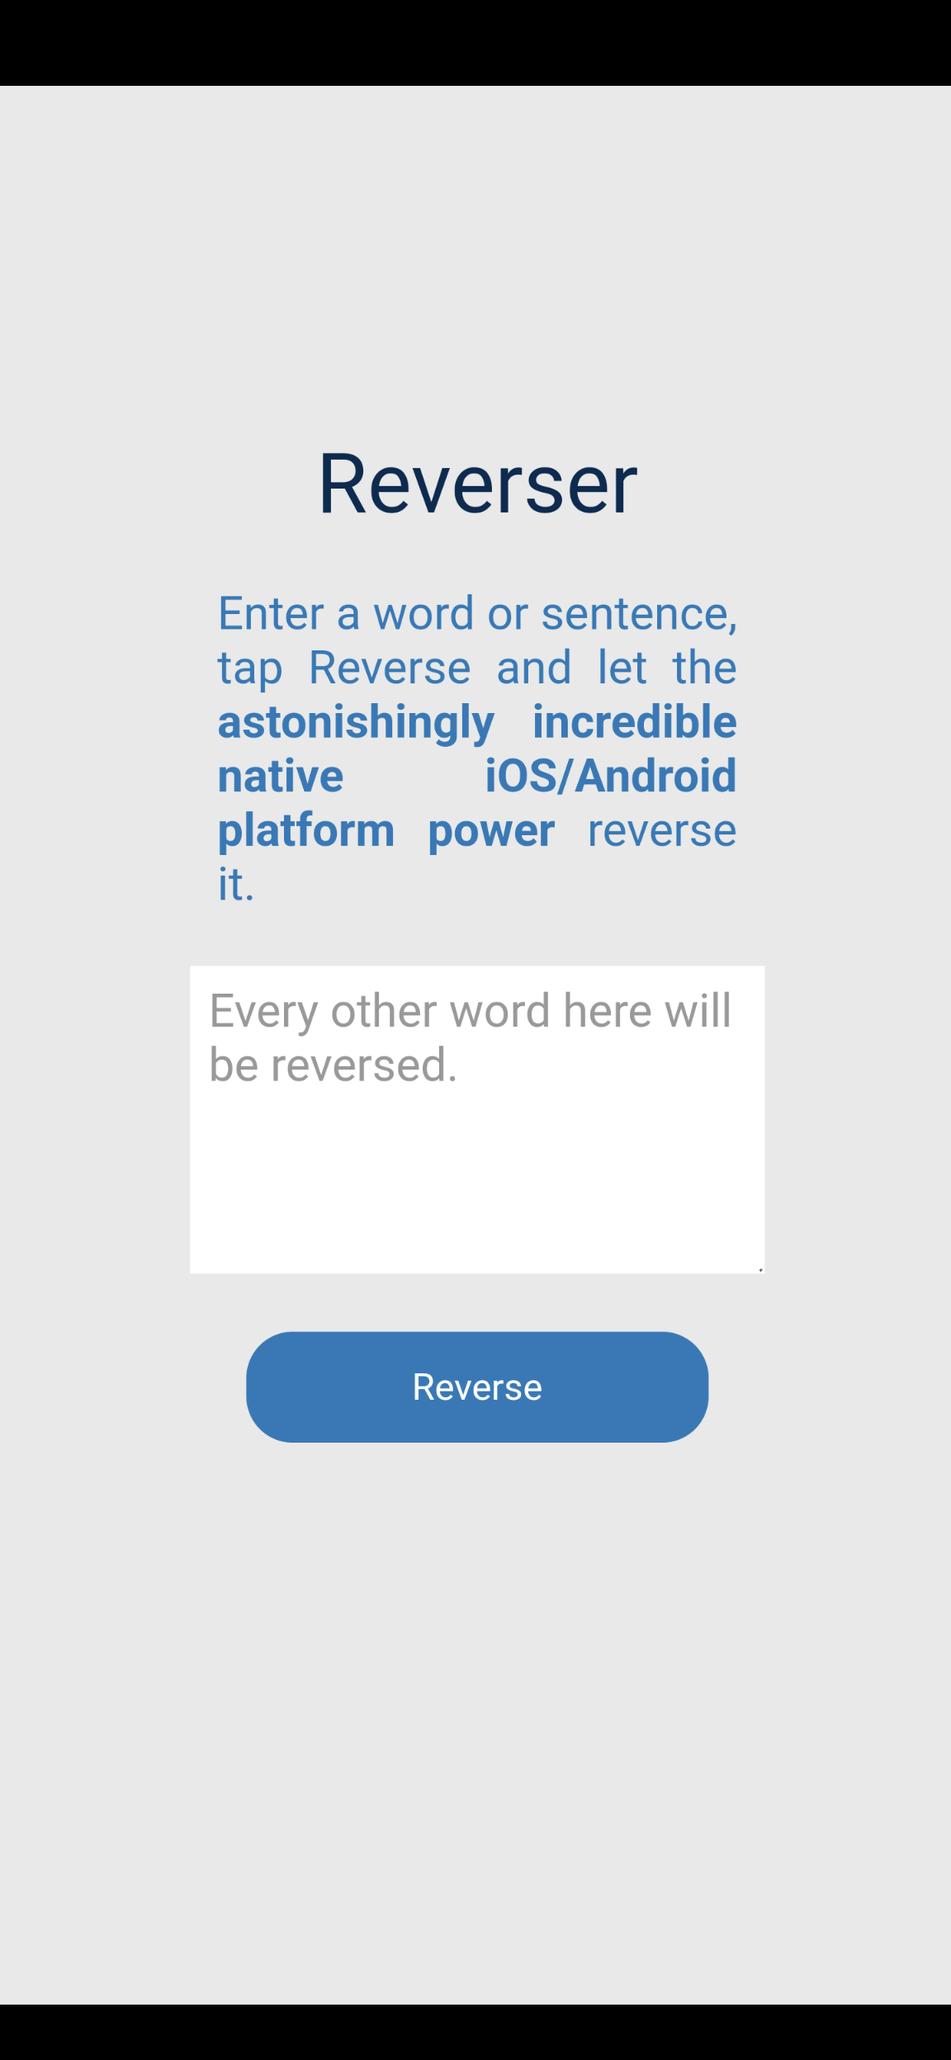
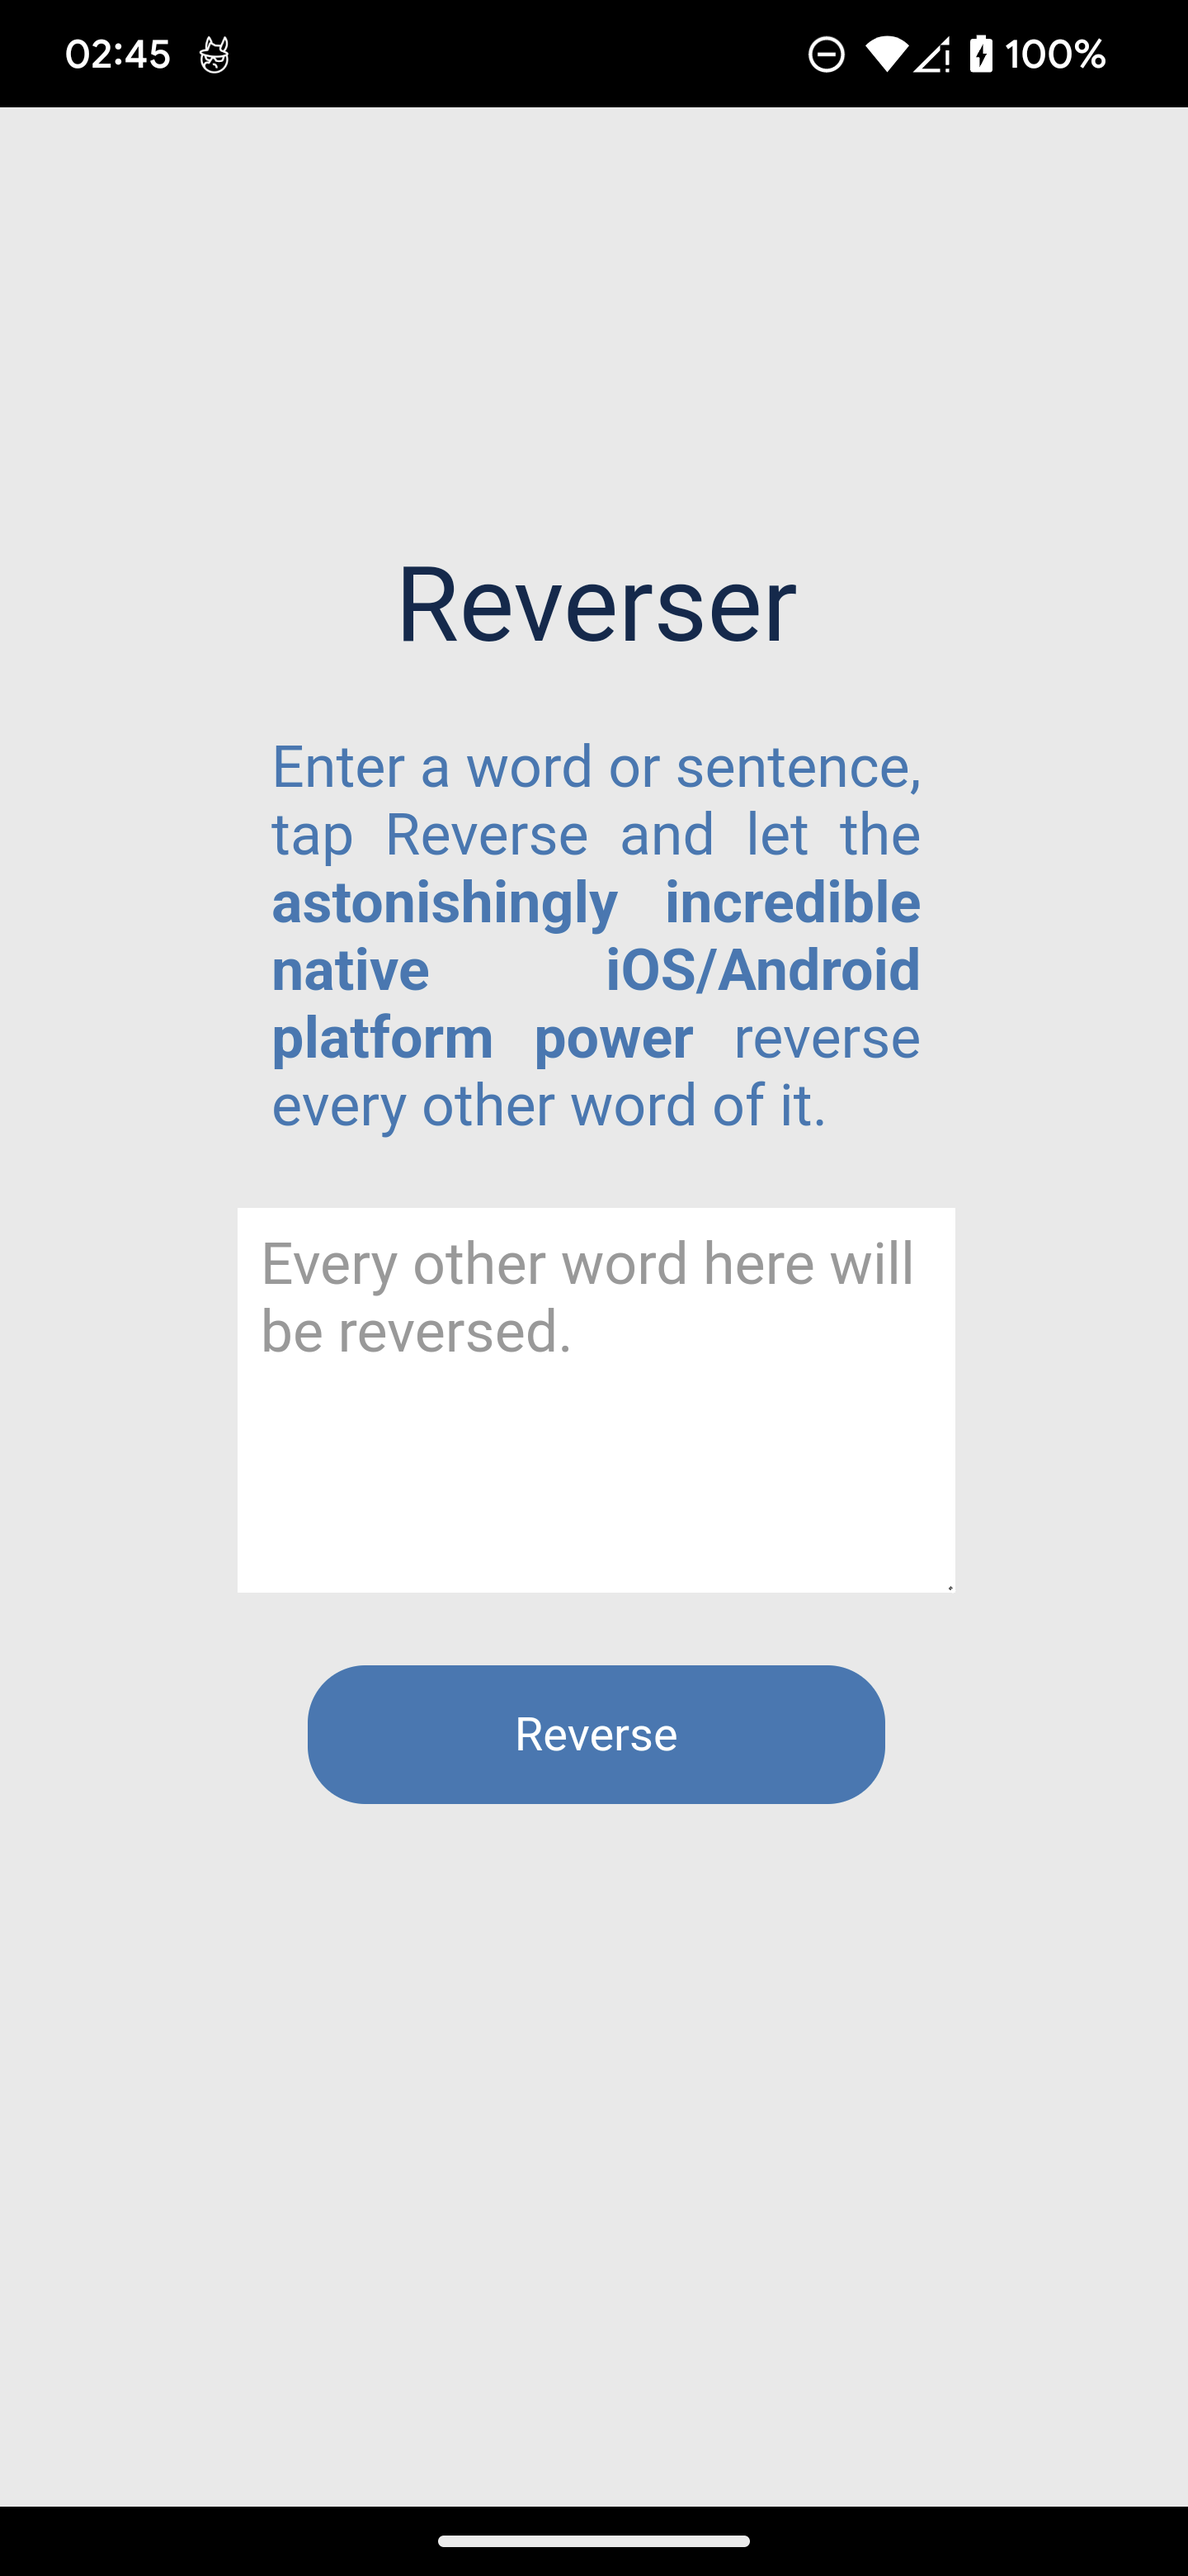
Updated README and screenshots

diff --git a/.vscode/typings/cordova/cordova.d.ts b/.vscode/typings/cordova/cordova.d.ts
@@ -1,0 +1,80 @@
+// Type definitions for Apache Cordova
+// Project: http://cordova.apache.org
+// Definitions by: Microsoft Open Technologies Inc. <http://msopentech.com>
+// Definitions: https://github.com/borisyankov/DefinitelyTyped
+//
+// Copyright (c) Microsoft Open Technologies, Inc.
+// Licensed under the MIT license.
+
+interface Cordova {
+    /** Invokes native functionality by specifying corresponding service name, action and optional parameters.
+     * @param success A success callback function.
+     * @param fail An error callback function.
+     * @param service The service name to call on the native side (corresponds to a native class).
+     * @param action The action name to call on the native side (generally corresponds to the native class method).
+     * @param args An array of arguments to pass into the native environment.
+     */
+    exec(success: () => any, fail: () => any, service: string, action: string, args?: string[]): void;
+    /** Gets the operating system name. */
+    platformId: string;
+    /** Gets Cordova framework version */
+    version: string;
+    /** Defines custom logic as a Cordova module. Other modules can later access it using module name provided. */
+    define(moduleName: string, factory: (require: any, exports: any, module: any) => any): void;
+    /** Access a Cordova module by name. */
+    require(moduleName: string): any;
+    /** Namespace for Cordova plugin functionality */
+    plugins:CordovaPlugins;
+}
+
+interface CordovaPlugins {}
+
+interface Document {
+    addEventListener(type: "deviceready", listener: (ev: Event) => any, useCapture?: boolean): void;
+    addEventListener(type: "pause", listener: (ev: Event) => any, useCapture?: boolean): void;
+    addEventListener(type: "resume", listener: (ev: Event) => any, useCapture?: boolean): void;
+    addEventListener(type: "backbutton", listener: (ev: Event) => any, useCapture?: boolean): void;
+    addEventListener(type: "menubutton", listener: (ev: Event) => any, useCapture?: boolean): void;
+    addEventListener(type: "searchbutton", listener: (ev: Event) => any, useCapture?: boolean): void;
+    addEventListener(type: "startcallbutton", listener: (ev: Event) => any, useCapture?: boolean): void;
+    addEventListener(type: "endcallbutton", listener: (ev: Event) => any, useCapture?: boolean): void;
+    addEventListener(type: "volumedownbutton", listener: (ev: Event) => any, useCapture?: boolean): void;
+    addEventListener(type: "volumeupbutton", listener: (ev: Event) => any, useCapture?: boolean): void;
+
+    removeEventListener(type: "deviceready", listener: (ev: Event) => any, useCapture?: boolean): void;
+    removeEventListener(type: "pause", listener: (ev: Event) => any, useCapture?: boolean): void;
+    removeEventListener(type: "resume", listener: (ev: Event) => any, useCapture?: boolean): void;
+    removeEventListener(type: "backbutton", listener: (ev: Event) => any, useCapture?: boolean): void;
+    removeEventListener(type: "menubutton", listener: (ev: Event) => any, useCapture?: boolean): void;
+    removeEventListener(type: "searchbutton", listener: (ev: Event) => any, useCapture?: boolean): void;
+    removeEventListener(type: "startcallbutton", listener: (ev: Event) => any, useCapture?: boolean): void;
+    removeEventListener(type: "endcallbutton", listener: (ev: Event) => any, useCapture?: boolean): void;
+    removeEventListener(type: "volumedownbutton", listener: (ev: Event) => any, useCapture?: boolean): void;
+    removeEventListener(type: "volumeupbutton", listener: (ev: Event) => any, useCapture?: boolean): void;
+
+    addEventListener(type: string, listener: (ev: Event) => any, useCapture?: boolean): void;
+    removeEventListener(type: string, listener: (ev: Event) => any, useCapture?: boolean): void;
+}
+
+interface Window {
+  cordova:Cordova;
+}
+
+// cordova/argscheck module
+interface ArgsCheck {
+    checkArgs(argsSpec: string, functionName: string, args: any[], callee?: any): void;
+    getValue(value?: any, defaultValue?: any): any;
+    enableChecks: boolean;
+}
+
+// cordova/urlutil module
+interface UrlUtil {
+    makeAbsolute(url: string): string
+}
+
+/** Apache Cordova instance */
+declare var cordova: Cordova;
+
+declare module 'cordova' {
+    export = cordova;
+}

diff --git a/typings/cordova-typings.d.ts b/typings/cordova-typings.d.ts
@@ -1,0 +1,2 @@
+
+/// <reference path="../.vscode/typings/cordova/cordova.d.ts"/>

diff --git a/reverserplugin/src/android/reverserplugin.java b/reverserplugin/src/android/reverserplugin.java
@@ -31,7 +31,7 @@ public class ReverserPlugin extends CordovaPlugin {
                 if(i%2 == 0){
                     sb.append(wordArray[i]);
                     sb.append(" ");
-                }else{ 
+                } else { 
                     sb.append(new StringBuilder(wordArray[i]).reverse());
                     sb.append(" "); 
                 }

diff --git a/README.md b/README.md
@@ -2,7 +2,7 @@
 
 ## cordova-plugin-reverser
 
-This is a simple plugin created with plugman 3.0.1 that receives an input, uses native code to process said input and returns an output. A simple Cordova app (for testing purposes) is also here.
+This repository contains a simple cordova app and a plugin created with plugman.
 
 
 ## Responsibilities
@@ -10,9 +10,9 @@ This is a simple plugin created with plugman 3.0.1 that receives an input, uses 
 
 ### Plugin
 
-Name: Reverser Cordova Plugin
-Package: dev.oscarsalguero.reversercordovaplugin
-Folder: reversercordovaplugin
+Name: reverserplugin
+Package: dev.oscarsalguero.reverserplugin
+Folder: reverserplugin
 
 1. Receive an input of type String, consisting of a sentence and use native functions to reverse every other word in that sentence. The reversal of every other word in the sentence is done natively, with Swift for iOS and with Kotlin for Android.
 
@@ -27,12 +27,18 @@ Folder: reversercordovaplugin
 
 App Supported platforms:
 
-#### Android & iOS
+#### Android & iOS App
 
-- Package: dev.oscarsalguero.reversertest
-- Name: ReverserTestApp
+- Name: Reverser
 
 ##### Android Details:
+
+![Android App Launcher Icon](screenshots/reverser-android-icon.png)
+
+![Android App UI With Sample Input](screenshots/reverser-android-index.png)
+
+![Android App Input Reversed](screenshots/reverser-android-index-reversed.png)
+
 
 - Activity: MainActivity
 - Android target: android-30
@@ -40,4 +46,11 @@ App Supported platforms:
 
 ##### iOS Details:
 
+![iOS App Launcher Icon](screenshots/reverser-ios-icon.png)
+
+![iOS App UI With Sample Input](screenshots/reverser-ios-index.png)
+
+![iOS App Input Reversed](screenshots/reverser-ios-index-reversed.png)
+
 - Created with: cordova-ios@6.2.0
+
